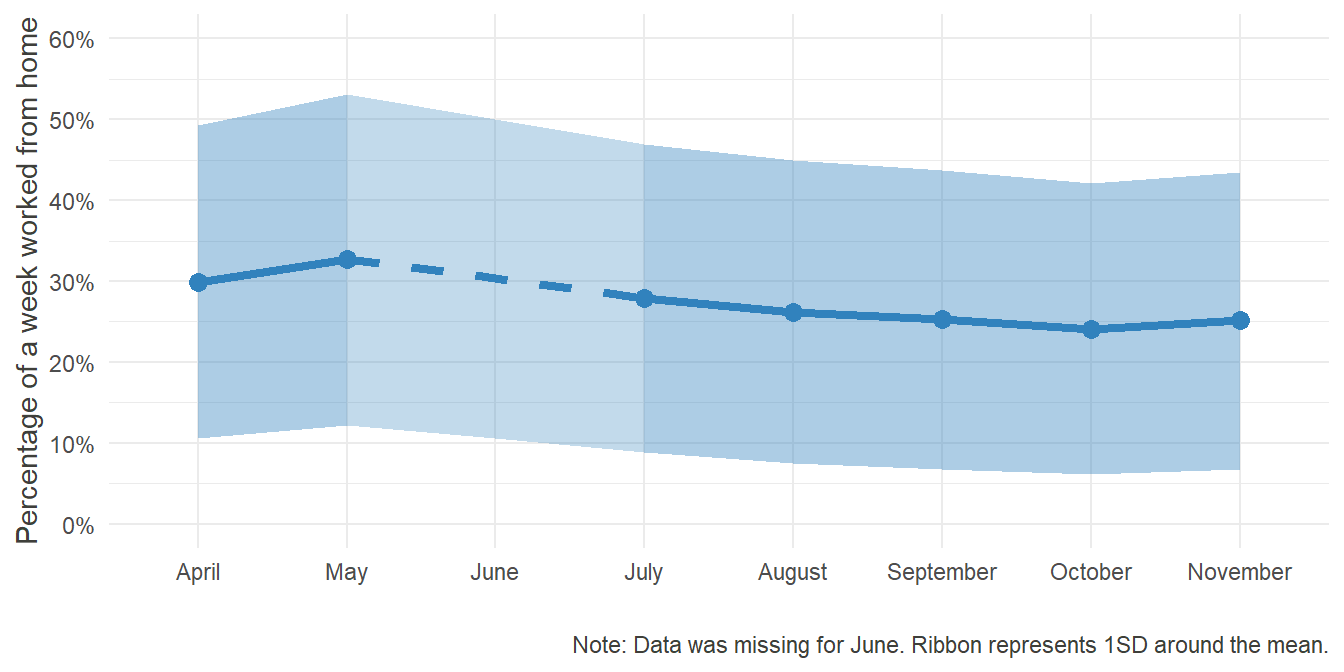
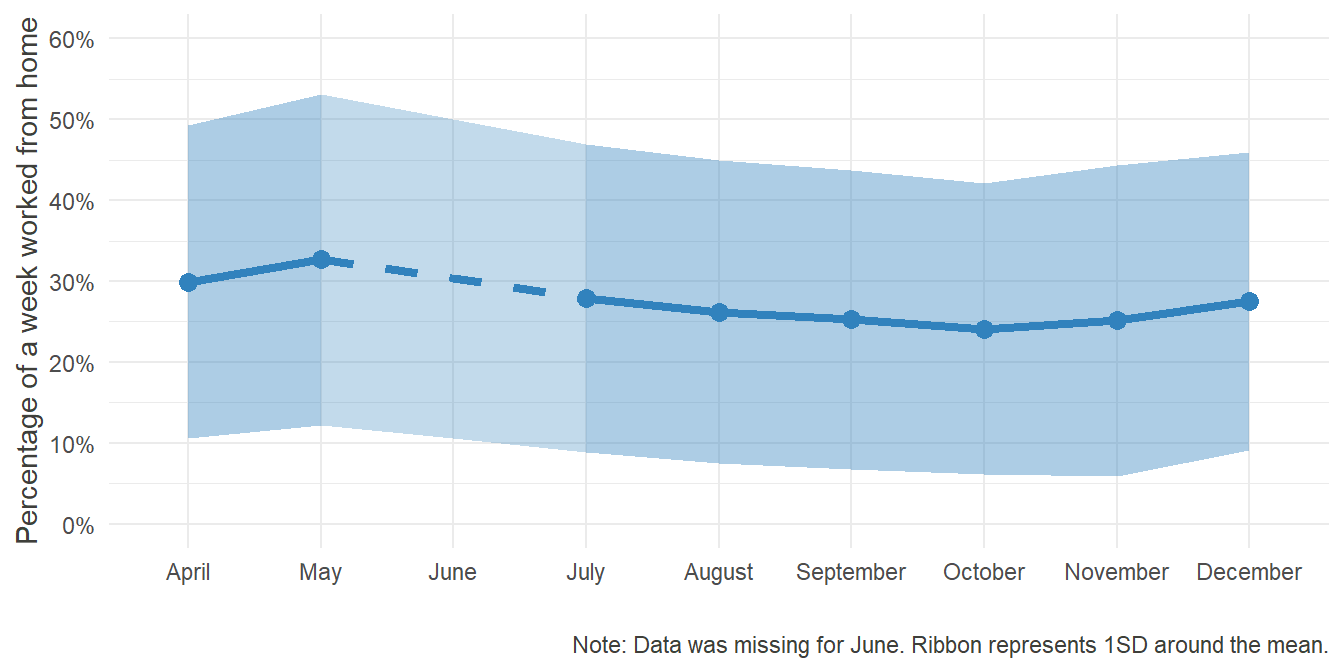
Updated plots for new wave

diff --git a/docs/HomeOffice.html b/docs/HomeOffice.html
@@ -474,7 +474,7 @@ Percentage of time worked from home in December 2019
 The following graphs show the <strong>average proportion of time</strong> spent in Home Office and how the percentages were <strong>distributed</strong> back then.</p>
 <pre class="r"><code>## For details on the code for the plots, please change to the &quot;Plots&quot;-Tab and unfold the code there. ##
 
-#cache.whatever inside the chunk options tells the chunk, that it has to be invalidated, as soon as one of these variables change. Otherwise, changing the plots in the chunk above doesn&#39;t invalidate this chunk and the lastly cached version will be displayes.
+#cache.whatever inside the chunk options tells the chunk, that it has to be invalidated, as soon as one of these variables change. Otherwise, changing the plots in the chunk above doesn&#39;t invalidate this chunk and the lastly cached version will be displayed.
 
 
 mean_HO_T1
@@ -486,7 +486,7 @@ Percentage of time worked from home in December 2019
 </p>
 </div>
 <p>As can be seen, before the COVID-19 Crisis hit, <strong>work from home was rather sparse</strong>. Only 725 of the 1639 participants, who answered this question, had indicated that they worked from home at all (equaling 44.23%)</p>
-<!-- To end the tabset from above without starting a new level 1 header, the following line of code is needed. .unnumbered is equivalent to {-} and .toc-ignore lets the toc not include this header. This is necessary, since we told the toc to include all level 1 headers, so otherwise there would be an ugly space in the toc, leading to this point in the page -->
+<!-- To end the tabset from above without starting a new level 1 header, the following line of code is needed. .unnumbered is equivalent to {-} and .toc-ignore makes the toc not include this header. This is necessary, since we told the toc to include all level 1 headers, so otherwise there would be an ugly space in the toc, leading to this point in the page -->
 </div>
 </div>
 <div id="section" class="section level1 unnumbered toc-ignore">
@@ -509,7 +509,8 @@ HO_Perc_rel = data.frame(
     mean(HO_Perc$T7_HO6, na.rm = T),
     mean(HO_Perc$T8_HO6, na.rm = T),
     mean(HO_Perc$T9_HO6, na.rm = T),
-    mean(HO_Perc$T10_HO6, na.rm = T)
+    mean(HO_Perc$T10_HO6, na.rm = T),
+    mean(HO_Perc$T11_HO6, na.rm = T)
   ),
   sd_perc = c(
     sd(HO_Perc$T3_HO6, na.rm = T),
@@ -519,6 +520,7 @@ HO_Perc_rel = data.frame(
     sd(HO_Perc$T7_HO6, na.rm = T),
     sd(HO_Perc$T8_HO6, na.rm = T),
     sd(HO_Perc$T9_HO6, na.rm = T),
+    sd(HO_Perc$T11_HO6, na.rm = T),
     sd(HO_Perc$T10_HO6, na.rm = T)
   )
 ) 
@@ -534,12 +536,14 @@ HO_Perc_rel$missing = c(NA,
                         NA,
                         NA,
                         NA,
+                        NA,
                         NA) 
 #Extrapolating the missing value in June to make a separate connecting line between May and July in the graph
 HO_Perc_rel$mis_sd = c(NA, 
                        HO_Perc_rel[2,3],
                        mean(c(HO_Perc_rel[2,3],HO_Perc_rel[4,3])),
                        HO_Perc_rel[4,3],
+                       NA,
                        NA,
                        NA,
                        NA,
@@ -716,7 +720,8 @@ HO_Perm_rel = data.frame(
            (length(which(HO_Perm$T7_HO4 == 2))/length(which((HO_Perm$T7_HO4 != &quot;NA&quot;)))),
            (length(which(HO_Perm$T8_HO4 == 2))/length(which((HO_Perm$T8_HO4 != &quot;NA&quot;)))),
            (length(which(HO_Perm$T9_HO4 == 2))/length(which((HO_Perm$T9_HO4 != &quot;NA&quot;)))),
-           (length(which(HO_Perm$T10_HO4 == 2))/length(which((HO_Perm$T10_HO4 != &quot;NA&quot;))))
+           (length(which(HO_Perm$T10_HO4 == 2))/length(which((HO_Perm$T10_HO4 != &quot;NA&quot;)))),
+           (length(which(HO_Perm$T11_HO4 == 2))/length(which((HO_Perm$T11_HO4 != &quot;NA&quot;))))
     
             )*100, digits = 2),
   
@@ -728,6 +733,7 @@ HO_Perm_rel$missing = c(NA,
                         HO_Perm_rel[2,1],
                         mean(c(HO_Perm_rel[2,1],HO_Perm_rel[4,1])),
                         HO_Perm_rel[4,1],
+                        NA,
                         NA,
                         NA,
                         NA,
@@ -788,7 +794,8 @@ HO_loc_prop &lt;- data.frame(
     August = plyr::count(df = HO_loc, vars = &quot;T7_HO18&quot;)[2:5,2]/length(which(HO_loc$T7_HO18 &gt; 0)),
     September = plyr::count(df = HO_loc, vars = &quot;T8_HO18&quot;)[2:5,2]/length(which(HO_loc$T8_HO18 &gt; 0)),
     October = plyr::count(df = HO_loc, vars = &quot;T9_HO18&quot;)[2:5,2]/length(which(HO_loc$T9_HO18 &gt; 0)),
-    November = plyr::count(df = HO_loc, vars = &quot;T10_HO18&quot;)[2:5,2]/length(which(HO_loc$T10_HO18 &gt; 0))
+    November = plyr::count(df = HO_loc, vars = &quot;T10_HO18&quot;)[2:5,2]/length(which(HO_loc$T10_HO18 &gt; 0)),
+    December = plyr::count(df = HO_loc, vars = &quot;T11_HO18&quot;)[2:5,2]/length(which(HO_loc$T11_HO18 &gt; 0))
     )
 # this one is a bit complicated :D I wanted to have the proportions of people woking from the respective places.
 # plyr::count(df = HO_loc, vars = &quot;T3_HO18&quot;) counts the frequency of every value inside a vector and returns a tibble with two columns (Value and Frequency) per variable. in this case, there are 6 &quot;Values&quot;, being 0,1,2,3,6 and NA.
@@ -846,6 +853,7 @@ HO_Isol$T7mean = rowMeans(HO_Isol[,grep(&quot;T7_HO1&quot;, names(HO_Isol), valu
 HO_Isol$T8mean = rowMeans(HO_Isol[,grep(&quot;T8_HO1&quot;, names(HO_Isol), value = T)])
 HO_Isol$T9mean = rowMeans(HO_Isol[,grep(&quot;T9_HO1&quot;, names(HO_Isol), value = T)])
 HO_Isol$T10mean = rowMeans(HO_Isol[,grep(&quot;T10_HO1&quot;, names(HO_Isol), value = T)])
+HO_Isol$T11mean = rowMeans(HO_Isol[,grep(&quot;T11_HO1&quot;, names(HO_Isol), value = T)])
 # Compiling the respective individual means of Isolation at every datapoint (dyplr might have given an easyer way)
 
 HO_Isol_means = data.frame(
@@ -858,13 +866,15 @@ HO_Isol_means = data.frame(
     mean(HO_Isol$T7mean, na.rm = T),
     mean(HO_Isol$T8mean, na.rm = T),
     mean(HO_Isol$T9mean, na.rm = T),
-    mean(HO_Isol$T10mean, na.rm = T)
+    mean(HO_Isol$T10mean, na.rm = T),
+    mean(HO_Isol$T11mean, na.rm = T)
   ),
   missing = c(
     NA,
     mean(HO_Isol$T4mean, na.rm = T),
     mean(c(mean(HO_Isol$T4mean, na.rm = T),mean(HO_Isol$T6mean, na.rm = T))),
     mean(HO_Isol$T6mean, na.rm = T),
+    NA,
     NA,
     NA,
     NA,
@@ -878,13 +888,15 @@ HO_Isol_means = data.frame(
     sd(HO_Isol$T7mean, na.rm = T),
     sd(HO_Isol$T8mean, na.rm = T),
     sd(HO_Isol$T9mean, na.rm = T),
-    sd(HO_Isol$T10mean, na.rm = T)
+    sd(HO_Isol$T10mean, na.rm = T),
+    sd(HO_Isol$T11mean, na.rm = T)
   ),
   sd_missing = c(
     NA,
     sd(HO_Isol$T4mean, na.rm = T),
     mean(sd(c(HO_Isol$T4mean, na.rm = T), sd(HO_Isol$T6mean, na.rm = T))),
     sd(HO_Isol$T6mean, na.rm = T),
+    NA,
     NA,
     NA,
     NA,
@@ -912,13 +924,14 @@ HO_Isol_plot</code></pre>
 <pre class="r"><code>HO_Isol =  cbind(HO_Isol, HO_Perc)
 #adding percentage of time worked in Home Office for Correlation seen in the text below
 mean_r = round(mean(c(
-cor(HO_Isol[,&quot;T3mean&quot;], HO_Isol[,&quot;T3_HO6&quot;], use = &quot;complete.obs&quot;),
-cor(HO_Isol[,&quot;T4mean&quot;], HO_Isol[,&quot;T4_HO6&quot;], use = &quot;complete.obs&quot;),
-cor(HO_Isol[,&quot;T6mean&quot;], HO_Isol[,&quot;T6_HO6&quot;], use = &quot;complete.obs&quot;),
-cor(HO_Isol[,&quot;T7mean&quot;], HO_Isol[,&quot;T7_HO6&quot;], use = &quot;complete.obs&quot;),
-cor(HO_Isol[,&quot;T8mean&quot;], HO_Isol[,&quot;T8_HO6&quot;], use = &quot;complete.obs&quot;),
-cor(HO_Isol[,&quot;T9mean&quot;], HO_Isol[,&quot;T9_HO6&quot;], use = &quot;complete.obs&quot;),
-cor(HO_Isol[,&quot;T10mean&quot;], HO_Isol[,&quot;T10_HO6&quot;], use = &quot;complete.obs&quot;)
+  cor(HO_Isol[,&quot;T3mean&quot;], HO_Isol[,&quot;T3_HO6&quot;], use = &quot;complete.obs&quot;),
+  cor(HO_Isol[,&quot;T4mean&quot;], HO_Isol[,&quot;T4_HO6&quot;], use = &quot;complete.obs&quot;),
+  cor(HO_Isol[,&quot;T6mean&quot;], HO_Isol[,&quot;T6_HO6&quot;], use = &quot;complete.obs&quot;),
+  cor(HO_Isol[,&quot;T7mean&quot;], HO_Isol[,&quot;T7_HO6&quot;], use = &quot;complete.obs&quot;),
+  cor(HO_Isol[,&quot;T8mean&quot;], HO_Isol[,&quot;T8_HO6&quot;], use = &quot;complete.obs&quot;),
+  cor(HO_Isol[,&quot;T9mean&quot;], HO_Isol[,&quot;T9_HO6&quot;], use = &quot;complete.obs&quot;),
+  cor(HO_Isol[,&quot;T10mean&quot;], HO_Isol[,&quot;T10_HO6&quot;], use = &quot;complete.obs&quot;),
+  cor(HO_Isol[,&quot;T11mean&quot;], HO_Isol[,&quot;T11_HO6&quot;], use = &quot;complete.obs&quot;)
 )), digits = 2)</code></pre>
 <p> <br />
  </p>
@@ -968,7 +981,8 @@ HO_Sat_means = data.frame(
     mean(HO_Sat[HO_Sat$T7_HO31&gt;0,&quot;T7_HO31&quot;], na.rm = T),
     mean(HO_Sat[HO_Sat$T8_HO31&gt;0,&quot;T8_HO31&quot;], na.rm = T),
     mean(HO_Sat[HO_Sat$T9_HO31&gt;0,&quot;T9_HO31&quot;], na.rm = T),
-    mean(HO_Sat[HO_Sat$T10_HO31&gt;0,&quot;T10_HO31&quot;], na.rm = T)
+    mean(HO_Sat[HO_Sat$T10_HO31&gt;0,&quot;T10_HO31&quot;], na.rm = T),
+    mean(HO_Sat[HO_Sat$T11_HO31&gt;0,&quot;T11_HO31&quot;], na.rm = T)
     ),
   sd = c(
     sd(HO_Sat[HO_Sat$T3_HO31&gt;0,&quot;T3_HO31&quot;], na.rm = T),
@@ -978,7 +992,8 @@ HO_Sat_means = data.frame(
     sd(HO_Sat[HO_Sat$T7_HO31&gt;0,&quot;T7_HO31&quot;], na.rm = T),
     sd(HO_Sat[HO_Sat$T8_HO31&gt;0,&quot;T8_HO31&quot;], na.rm = T),
     sd(HO_Sat[HO_Sat$T9_HO31&gt;0,&quot;T9_HO31&quot;], na.rm = T),
-    sd(HO_Sat[HO_Sat$T10_HO31&gt;0,&quot;T10_HO31&quot;], na.rm = T)
+    sd(HO_Sat[HO_Sat$T10_HO31&gt;0,&quot;T10_HO31&quot;], na.rm = T),
+    sd(HO_Sat[HO_Sat$T11_HO31&gt;0,&quot;T11_HO31&quot;], na.rm = T)
   ),
   missing = c(
      NA,
@@ -988,13 +1003,15 @@ HO_Sat_means = data.frame(
     NA,
     NA,
     NA,
-   NA
+    NA,
+    NA
   ),
   mis_sd = c(
      NA,
     sd(HO_Sat[HO_Sat$T4_HO31&gt;0,&quot;T4_HO31&quot;], na.rm = T),
     mean(c(sd(HO_Sat[HO_Sat$T4_HO31&gt;0,&quot;T4_HO31&quot;], na.rm = T),sd(HO_Sat[HO_Sat$T6_HO31&gt;0,&quot;T6_HO31&quot;], na.rm = T))),
     sd(HO_Sat[HO_Sat$T6_HO31&gt;0,&quot;T6_HO31&quot;], na.rm = T),
+    NA,
     NA,
     NA,
     NA,
@@ -1042,7 +1059,8 @@ HO_Sat_means = HO_Sat_means %&gt;%
     mean(HO_Sat[(HO_Sat$T7_covid11 == 3 &amp; HO_Sat$T7_HO31&gt;0), &quot;T7_HO31&quot;], na.rm = T),
     mean(HO_Sat[(HO_Sat$T8_covid11 == 3 &amp; HO_Sat$T8_HO31&gt;0), &quot;T8_HO31&quot;], na.rm = T),
     mean(HO_Sat[(HO_Sat$T9_covid11 == 3 &amp; HO_Sat$T9_HO31&gt;0), &quot;T9_HO31&quot;], na.rm = T),
-    mean(HO_Sat[(HO_Sat$T10_covid11 == 3 &amp; HO_Sat$T10_HO31&gt;0), &quot;T10_HO31&quot;], na.rm = T)
+    mean(HO_Sat[(HO_Sat$T10_covid11 == 3 &amp; HO_Sat$T10_HO31&gt;0), &quot;T10_HO31&quot;], na.rm = T),
+    mean(HO_Sat[(HO_Sat$T11_covid11 == 3 &amp; HO_Sat$T11_HO31&gt;0), &quot;T11_HO31&quot;], na.rm = T)
   ))%&gt;%
   mutate(means_care_partner =  c(
     mean(HO_Sat[(HO_Sat$T3_covid11 == 4 &amp; HO_Sat$T3_HO31&gt;0), &quot;T3_HO31&quot;], na.rm = T),
@@ -1052,13 +1070,15 @@ HO_Sat_means = HO_Sat_means %&gt;%
     mean(HO_Sat[(HO_Sat$T7_covid11 == 4 &amp; HO_Sat$T7_HO31&gt;0), &quot;T7_HO31&quot;], na.rm = T),
     mean(HO_Sat[(HO_Sat$T8_covid11 == 4 &amp; HO_Sat$T8_HO31&gt;0), &quot;T8_HO31&quot;], na.rm = T),
     mean(HO_Sat[(HO_Sat$T9_covid11 == 4 &amp; HO_Sat$T9_HO31&gt;0), &quot;T9_HO31&quot;], na.rm = T),
-    mean(HO_Sat[(HO_Sat$T10_covid11 == 4 &amp; HO_Sat$T10_HO31&gt;0), &quot;T10_HO31&quot;], na.rm = T)
+    mean(HO_Sat[(HO_Sat$T10_covid11 == 4 &amp; HO_Sat$T10_HO31&gt;0), &quot;T10_HO31&quot;], na.rm = T),
+    mean(HO_Sat[(HO_Sat$T11_covid11 == 4 &amp; HO_Sat$T11_HO31&gt;0), &quot;T11_HO31&quot;], na.rm = T)
   ))%&gt;%
   mutate(missing_self = c(
     NA,
      mean(HO_Sat[(HO_Sat$T4_covid11 == 3 &amp; HO_Sat$T4_HO31&gt;0), &quot;T4_HO31&quot;], na.rm = T),
     mean(c( mean(HO_Sat[(HO_Sat$T4_covid11 == 3 &amp; HO_Sat$T4_HO31&gt;0), &quot;T4_HO31&quot;], na.rm = T),mean(HO_Sat[(HO_Sat$T6_covid11 == 3 &amp; HO_Sat$T6_HO31&gt;0), &quot;T6_HO31&quot;], na.rm = T))),
     mean(HO_Sat[(HO_Sat$T6_covid11 == 3 &amp; HO_Sat$T6_HO31&gt;0), &quot;T6_HO31&quot;], na.rm = T),
+    NA,
     NA,
     NA,
     NA,
@@ -1069,6 +1089,7 @@ HO_Sat_means = HO_Sat_means %&gt;%
     mean(HO_Sat[(HO_Sat$T4_covid11 == 4 &amp; HO_Sat$T4_HO31&gt;0), &quot;T4_HO31&quot;], na.rm = T),
     mean(c( mean(HO_Sat[(HO_Sat$T4_covid11 == 4 &amp; HO_Sat$T4_HO31&gt;0), &quot;T4_HO31&quot;], na.rm = T),mean(HO_Sat[(HO_Sat$T6_covid11 == 4 &amp; HO_Sat$T6_HO31&gt;0), &quot;T6_HO31&quot;], na.rm = T))),
     mean(HO_Sat[(HO_Sat$T6_covid11 == 4 &amp; HO_Sat$T6_HO31&gt;0), &quot;T6_HO31&quot;], na.rm = T),
+    NA,
     NA,
     NA,
     NA,
@@ -1162,6 +1183,7 @@ HO_Sat_Eff =   reshape(
 # table(HO_Sat$T8_HO31 == HO_Sat_Eff[HO_Sat_Eff$month==5, &quot;Sat&quot;])
 # table(HO_Sat$T9_HO31 == HO_Sat_Eff[HO_Sat_Eff$month==6, &quot;Sat&quot;])
 # table(HO_Sat$T10_HO31 == HO_Sat_Eff[HO_Sat_Eff$month==7, &quot;Sat&quot;])
+# table(HO_Sat$T11_HO31 == HO_Sat_Eff[HO_Sat_Eff$month==8, &quot;Sat&quot;])
 # 
 # table(HO_Sat$T3_HO32 == HO_Sat_Eff[HO_Sat_Eff$month==1, &quot;Eff&quot;])
 # table(HO_Sat$T4_HO32 == HO_Sat_Eff[HO_Sat_Eff$month==2, &quot;Eff&quot;])
@@ -1170,6 +1192,7 @@ HO_Sat_Eff =   reshape(
 # table(HO_Sat$T8_HO32 == HO_Sat_Eff[HO_Sat_Eff$month==5, &quot;Eff&quot;])
 # table(HO_Sat$T9_HO32 == HO_Sat_Eff[HO_Sat_Eff$month==6, &quot;Eff&quot;])
 # table(HO_Sat$T10_HO32 == HO_Sat_Eff[HO_Sat_Eff$month==7, &quot;Eff&quot;])
+# table(HO_Sat$T11_HO32 == HO_Sat_Eff[HO_Sat_Eff$month==8, &quot;Eff&quot;])
 
 HO_Sat_Eff$month = factor(HO_Sat_Eff$month,
                           labels = months_miss)
@@ -1278,7 +1301,7 @@ HO_Sat_Equip_plot</code></pre>
 <h3>Additional Information</h3>
 <pre class="r"><code>HO_Sat_Equip_plot</code></pre>
 <p><img src="HomeOffice_files/figure-html/equipment%202-1.png" width="288" style="float:left; padding:10px" /></p>
-<p>Similar to the workspace itself, having the <strong>right equipment</strong> for working at home can be important for the <strong>satisfaction</strong> experienced. What kind of equipment is needed can vary from job to job. For some, a simple laptop and a steady internet-connection could be enough (although granted, not always available), while others might need strong hardware, specific software, or special devices. So we just asked our participants in general <strong>whether or not they had sufficient technical equipment</strong> at home, as to not assume what that should include. The barplot on the right shows the results for April.<br />
+<p>Similar to the workspace itself, having the <strong>right equipment</strong> for working at home can be important for the <strong>satisfaction</strong> experienced. What kind of equipment is needed can vary from job to job. For some, a simple laptop and a steady internet-connection could be enough (although granted, not always available), while others might need strong hardware, specific software, or special devices. So we just asked our participants in general <strong>whether or not they had sufficient technical equipment</strong> at home, as to not assume what that should include. The barplot on the left shows the results for April.<br />
 In general, 460 out of 595 (= 77.31%) participants indicated in April to have sufficient equipment when working from home. So, while <strong>most people</strong> seemed to have the <strong>right equipment</strong> at home, for the <strong>rest</strong> the <strong>insufficiency</strong> was associated with <strong>lower satisfaction</strong>. Again, statistical significance and causal analysis pending.</p>
 <hr />
 <p> <br />
